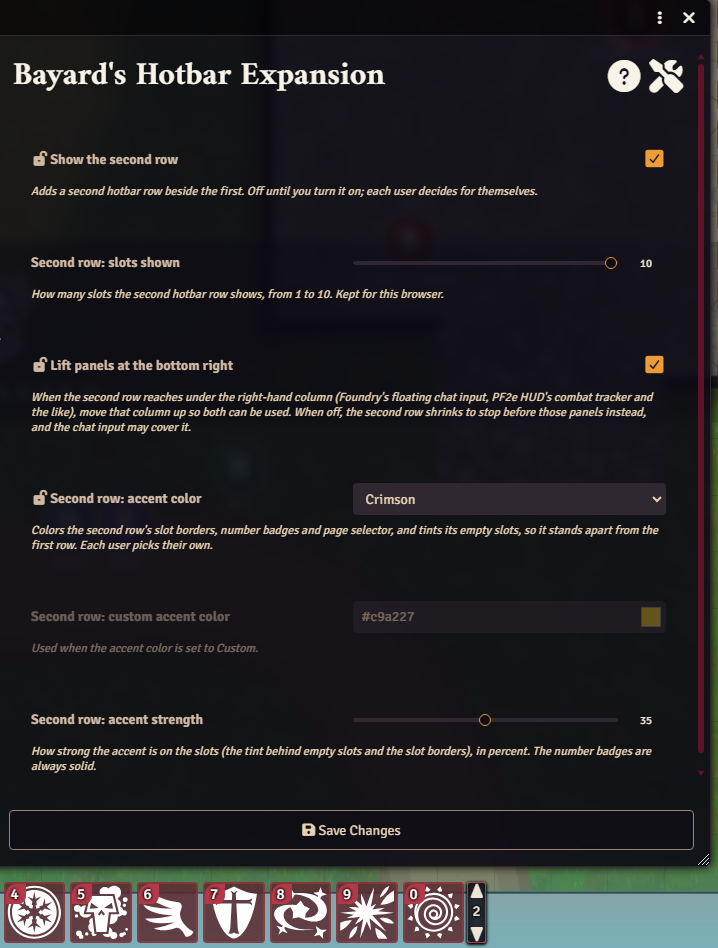
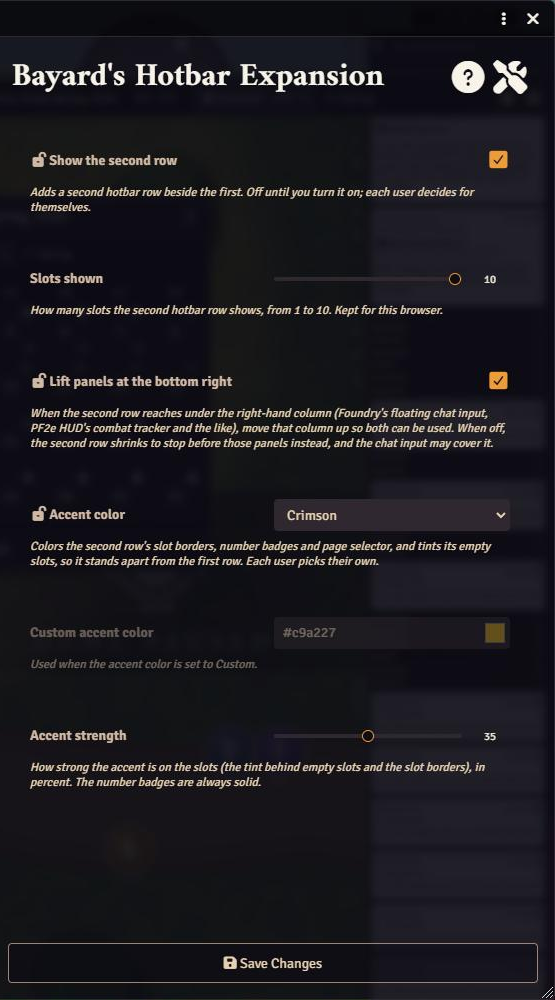
Release 0.5.0
Version 0.5.0 (folds in the unreleased 0.4.1 fixes); CHANGELOG with the two
changes to how the editor works first (Limited sharing, players' own
hotbar); README for the new features and settings names; the editor and
settings pictures retaken; module.json's description.

Claude-Session: https://claude.ai/code/session_01K6FfSAPuA5zE17MCDYsADi

diff --git a/README.md b/README.md
@@ -1,6 +1,6 @@
 # Bayard's Hotbar Expansion
 
-A second hotbar row beside the first. It shows any of the five hotbar pages, with its own page selector, its own keys, a slot count you choose and an optional accent color. It works with Foundry's own layout and with PF2e HUD's persistent HUD. For the GM, it also opens any user's whole hotbar for editing.
+A second hotbar row beside the first. It shows any of the five hotbar pages, with its own page selector, its own keys, a slot count you choose and an optional accent color. It works with Foundry's own layout and with PF2e HUD's persistent HUD. It also opens a whole hotbar for editing: any user's for the GM, your own for a player.
 
 ## What it looks like
 
@@ -14,15 +14,15 @@ A second hotbar row beside the first. It shows any of the five hotbar pages, wit
 
 ![The settings](docs/images/settings.png)
 
-**The settings.** Each user turns the row on for themselves. The accent shows on the row while you pick it.
+**The settings.** Each user turns the row on for themselves; while it's off, the rest are grayed out. The accent shows on the row while you pick it.
 
 ![Accent colors](docs/images/accents.png)
 
 **Accent colors.** The five presets and a custom color; your player color is the other choice.
 
-![The GM's hotbar editor](docs/images/editor.png)
+![The hotbar editor](docs/images/editor.png)
 
-**The GM's hotbar editor.** A player's five pages at once. The red border marks a macro the player can't run.
+**The hotbar editor.** A player's five pages at once. The red border marks a macro the player can't run; the eye marks the page on their second row.
 
 ## Install
 
@@ -44,16 +44,18 @@ Foundry keeps 50 hotbar slots per user, on five pages of ten, and shows one page
 
 - **Each user decides.** GM or player, each turns it on for themselves, on any computer. Turning it off puts everything back.
 - **The same hotbar.** Nothing new is stored. Click, drop, drag between slots and rows, and right-click, as on the first row. The hotbar lock applies to both.
-- **Its own page.** Its arrows flip it through pages 1 to 5 without touching the first row. It starts on page 2 and remembers where you leave it.
-- **Its own keys.** Alt+Shift+1 to Alt+Shift+0 run its slots (change them in **Configure Controls**). Alt+1 to 5 still switch the first row's page.
-- **Slot count.** Show 1 to 10 slots ("Second row: slots shown", per browser).
+- **Its own page.** Its arrows flip it through pages 1 to 5 without touching the first row; so do the mouse wheel over them and Alt+Shift+Up and Down. Click the page number to pick a page. It starts on page 2 and remembers where you leave it.
+- **Its own keys.** Alt+Shift+1 to Alt+Shift+0 run its slots; a slot's tooltip names its key. Change them in **Configure Controls**. Alt+1 to 5 still switch the first row's page.
+- **Slot count.** Show 1 to 10 slots ("Slots shown", per browser).
+
+With the row off, its other settings are grayed out.
 
 ## Accent color
 
-An accent color tells the rows apart at a glance ("Second row: accent color"):
+An accent color tells the rows apart at a glance ("Accent color"):
 
 - It colors the slot borders, number badges and page selector, and tints the empty slots.
-- Crimson, Violet, Blue, Green, Black, your player color or a custom color; "Second row: accent strength" sets 10% to 60%. The default, none, looks like the first row.
+- Crimson, Violet, Blue, Green, Charcoal, your player color or a custom color; "Accent strength" sets 10% to 60%. The default, none, looks like the first row.
 - It shows on the row as you change it in the settings window, and goes back if you close without saving. Each user picks their own.
 
 ## Where it sits
@@ -64,23 +66,22 @@ An accent color tells the rows apart at a glance ("Second row: accent color"):
 - **The bottom right:** when the row reaches under the right-hand column (the floating chat input, PF2e HUD's combat tracker), the column moves up. Turn off "Lift panels at the bottom right" to have the row shrink instead.
 - When the first row is hidden, so is the second.
 
-## For the GM: edit a player's hotbar
+## Edit a whole hotbar
 
-Right-click a user in the Players list and choose **Edit Hotbar**: a window with all five pages of their hotbar, updated as they change it. The name in the title bar switches to another user; the button beside it opens the Macro Directory.
+Right-click a user in the Players list and choose **Edit Hotbar**: a window with all five pages of their hotbar, updated as they change it. A GM can open anyone's, and the name in the title bar switches to another user; a player can open their own (right-click your own name). The button in the title bar opens the Macro Directory. An eye beside a page number marks the page on that user's second row.
 
 - **Add:** drop a macro from the Macro Directory or a compendium (imported into the world). Anything else becomes a macro as it would on Foundry's hotbar: in Pathfinder 2e, strikes, actions, items, conditions and effects become PF2e's own macros; roll tables a draw macro; other documents a macro that opens their sheet.
 - **Move:** drag to another slot or page; a filled slot swaps.
-- **Edit:** click a macro to open it, or an empty slot to make one (closed with no name or command, it's removed again).
-- **Remove or delete:** right-click for Edit, Remove from Slot (the macro stays in the world) and Delete. Shift+right-click deletes (Foundry asks first).
-- **What it shares for you:** a player can run a macro they have Limited permission on. One you put on their hotbar that they can't run is shared with them as Observer, with a note. One already there that they can't run has a red border and an eye-slash mark.
-- **What it can't fix:** a macro made from an item, a strike or a journal entry also needs the player to be able to open that item, character or entry. You're warned when they can't.
-
-Only a GM can open it.
+- **Edit:** click a macro to open it. On an empty slot, click the **+** to make a new one (closed with no name or command, it's removed again).
+- **Remove or delete:** right-click for Edit, Remove from Slot (the macro stays in the world) and Delete. Shift+right-click deletes (Foundry asks first). A player can delete only their own macros.
+- **Copy or clear a page:** click a page number. A GM can copy any page of any user's hotbar onto it, or a whole hotbar onto this one (an exact copy, empty slots included). **Clear Page** empties it; the macros stay in the world.
+- **What it shares for you (GM):** a player can run a macro they have Limited permission on, which hides its command. One you put on their hotbar that they can't run is shared with them as Limited, with a note. Macros shared as Observer before 0.5.0 stay that way until you change them. One already there that they can't run has a red border and an eye-slash mark.
+- **What it can't fix:** a macro made from an item, a strike or a journal entry also needs the player to be able to open that item, character or entry. You're warned when they can't. And if a player changes their hotbar at the very moment you copy onto it, one of the two changes can be lost.
 
 ## Other modules
 
 - The second row is Foundry's own hotbar underneath, so modules that react to `renderHotbar` (interface themes, say) see it too.
-- The editor passes drops it doesn't handle to the `hotbarDrop` hook, so the game system builds its macros. A handler that writes the GM's hotbar directly, instead of calling `assignHotbarMacro`, can't place its macro from the editor.
+- The editor passes drops it doesn't handle to the `hotbarDrop` hook (with `ui.hotbar` as the hotbar), so the game system builds its macros. A handler that writes the current user's hotbar directly, instead of calling `assignHotbarMacro`, can't place its macro from the editor.
 
 ## API
 
@@ -88,7 +89,7 @@ Only a GM can open it.
 
 - `bar`: the second row, or `null` while it's off. `bar.changePage(3)` shows page 3; `bar.page` is the page shown.
 - `executeSlot(n)`: runs slot n (1 to 10) of the second row's page.
-- `editHotbar(user)`: opens the GM's editor on a user (a User or a user id). GM only.
+- `editHotbar(user)`: opens the editor on a user (a User or a user id): any user for a GM, only their own for a player.
 
 ## Changes
 

diff --git a/CHANGELOG.md b/CHANGELOG.md
@@ -1,11 +1,32 @@
 # Changelog
 
-## 0.4.1
+## 0.5.0
+
+**Two changes to how the hotbar editor works:**
+
+- **Macros are shared as Limited, not Observer.** A macro a GM puts on a player's hotbar that the player can't run is now shared with them as Limited: they can run it but can't read its command. Macros shared as Observer by earlier versions stay Observer until you change their permissions.
+- **Players can open the editor on their own hotbar.** Right-click your own name in the Players list and choose Edit Hotbar. A player sees only their own hotbar, shares nothing and can delete only their own macros. Until now only a GM could open it.
+
+**New**
+
+- In the editor, click a page number to copy a page from any user's hotbar, copy a whole hotbar, or clear the page. Copies are exact, empty slots included, and macros the player can't run are shared as Limited. Copying is for the GM; a player can clear their own pages.
+- New macros come from a **+** on an empty slot, not from any click on it. A blank new macro left behind by a reload or a closed browser is cleared up later.
+- The editor marks the page each user has on their second row.
+- Second row: Alt+Shift+Up and Alt+Shift+Down flip its page, clicking its page number picks a page, the mouse wheel over its page selector flips pages, and a full slot's tooltip names its key.
+- Settings lose the "Second row:" prefix, and while the row is off its other settings are grayed out.
+- The Black accent is now Charcoal, light enough to see on dark slots.
+- The accent tint no longer replaces a theme's own slot shadow or glow.
+- The editor's help is one line.
+
+**Fixed**
 
 - Turning the second row on and off in quick succession no longer shows an error or leaves the row half on: it always ends as the setting says.
 - In the hotbar editor, dragging a macro from your own hotbar onto the first or second row moves it there, as a drag between the rows does, instead of copying it.
 - Inside PF2e HUD, the second row keeps a usable size and look if a PF2e HUD update renames the styles it borrows.
 - The message for something the editor can't put on a hotbar now says what kind of thing was dropped.
+- Remove from Slot removes only the macro you opened the menu on; if the slot has changed since, it says so and removes nothing.
+- The second row does far less work while other windows redraw (PF2e HUD in combat, for one), with its layout unchanged, and no longer redraws when the first row changes page.
+- Modules that react to hotbar drops get Foundry's hotbar from the editor, not the editor window.
 
 ## 0.4.0
 
